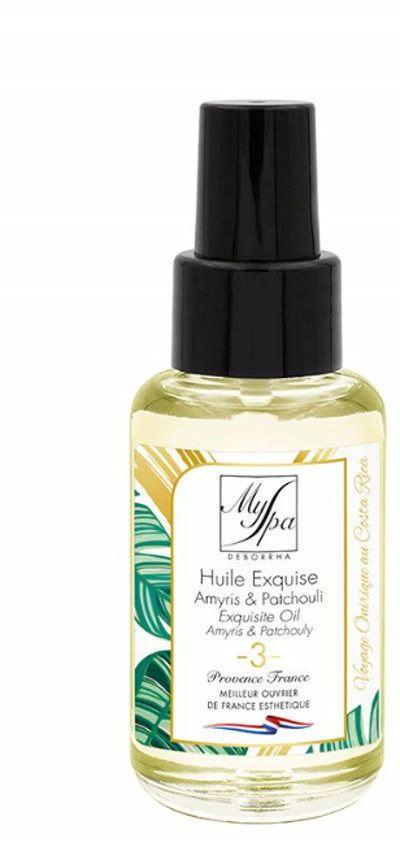
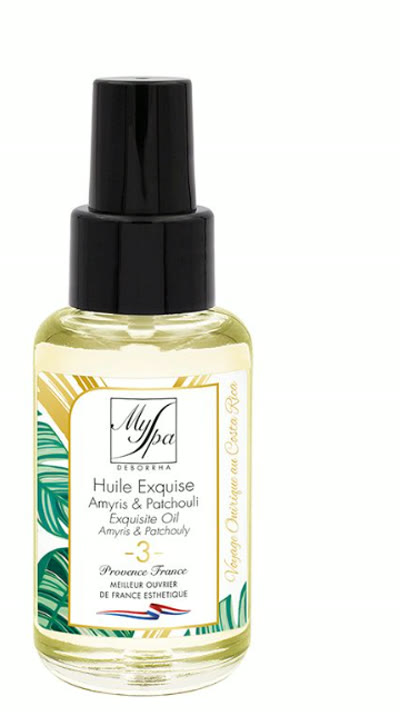
Recentre et met en valeur les photos des huiles corps MySpa
Recadrage précis et cohérent des 10 flacons (certains étaient mal
centrés, notamment Huile Vanille 50 ml qui était coupée sur le bord).
Miniatures agrandies (56px -> 68px), avec bordure et ombre légère
pour mieux faire ressortir chaque produit dans la liste.

diff --git a/css/style.css b/css/style.css
@@ -1169,13 +1169,15 @@ body:has(#productBar:not([hidden])) .fab-book {
 .product-row { padding: 0; overflow: hidden; }
 .product-row-main { display: flex; align-items: center; gap: 16px; padding: 12px 20px; cursor: pointer; }
 .product-row-thumb {
-  width: 56px; height: 56px;
+  width: 68px; height: 68px;
   flex-shrink: 0;
   border-radius: var(--r-md);
-  background-color: var(--cream);
+  background-color: var(--cream-light);
   background-size: contain;
   background-repeat: no-repeat;
   background-position: center;
+  border: 1px solid var(--glass-border);
+  box-shadow: 0 6px 16px -10px rgba(107,69,48,.4);
 }
 .product-row-info { flex: 1; min-width: 0; display: flex; flex-direction: column; gap: 2px; }
 .product-row-info h3 { font-family: var(--ff-serif); font-size: 1rem; color: var(--brown-deep); font-weight: 600; }
